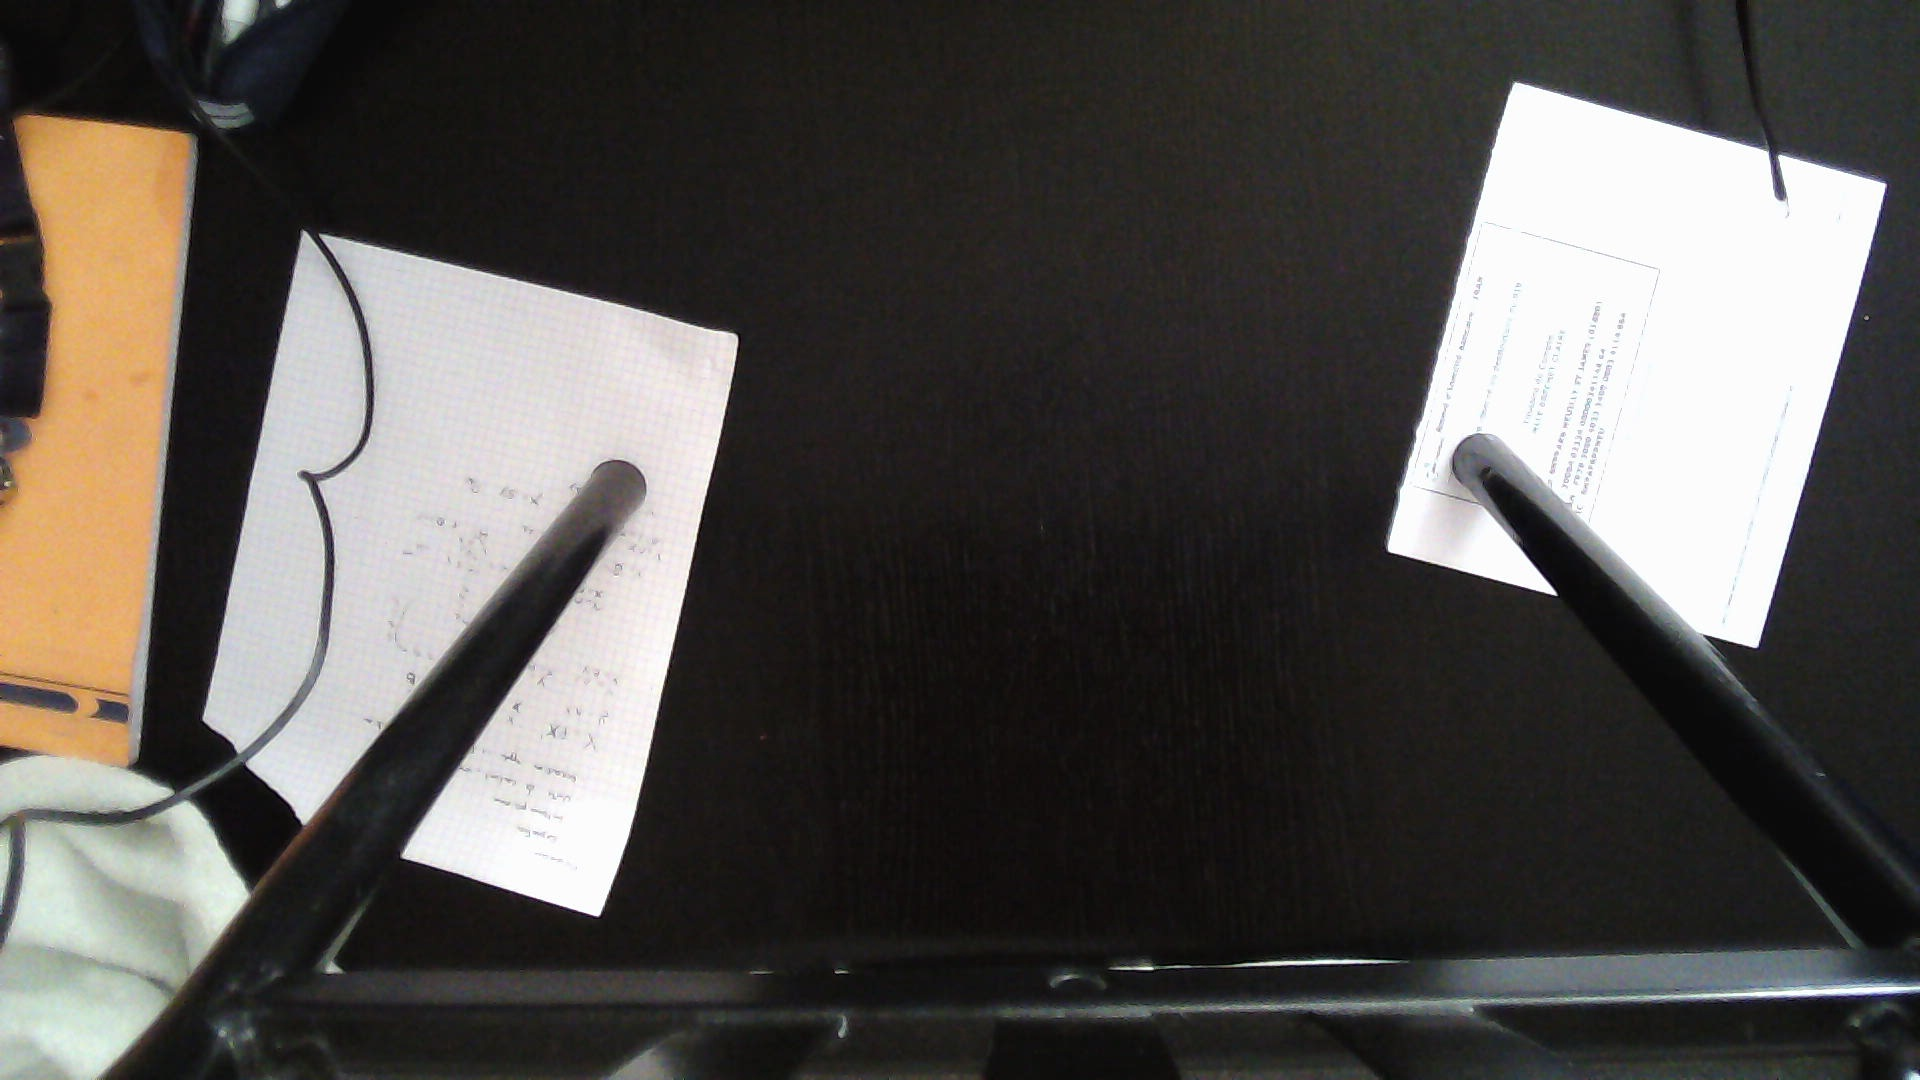
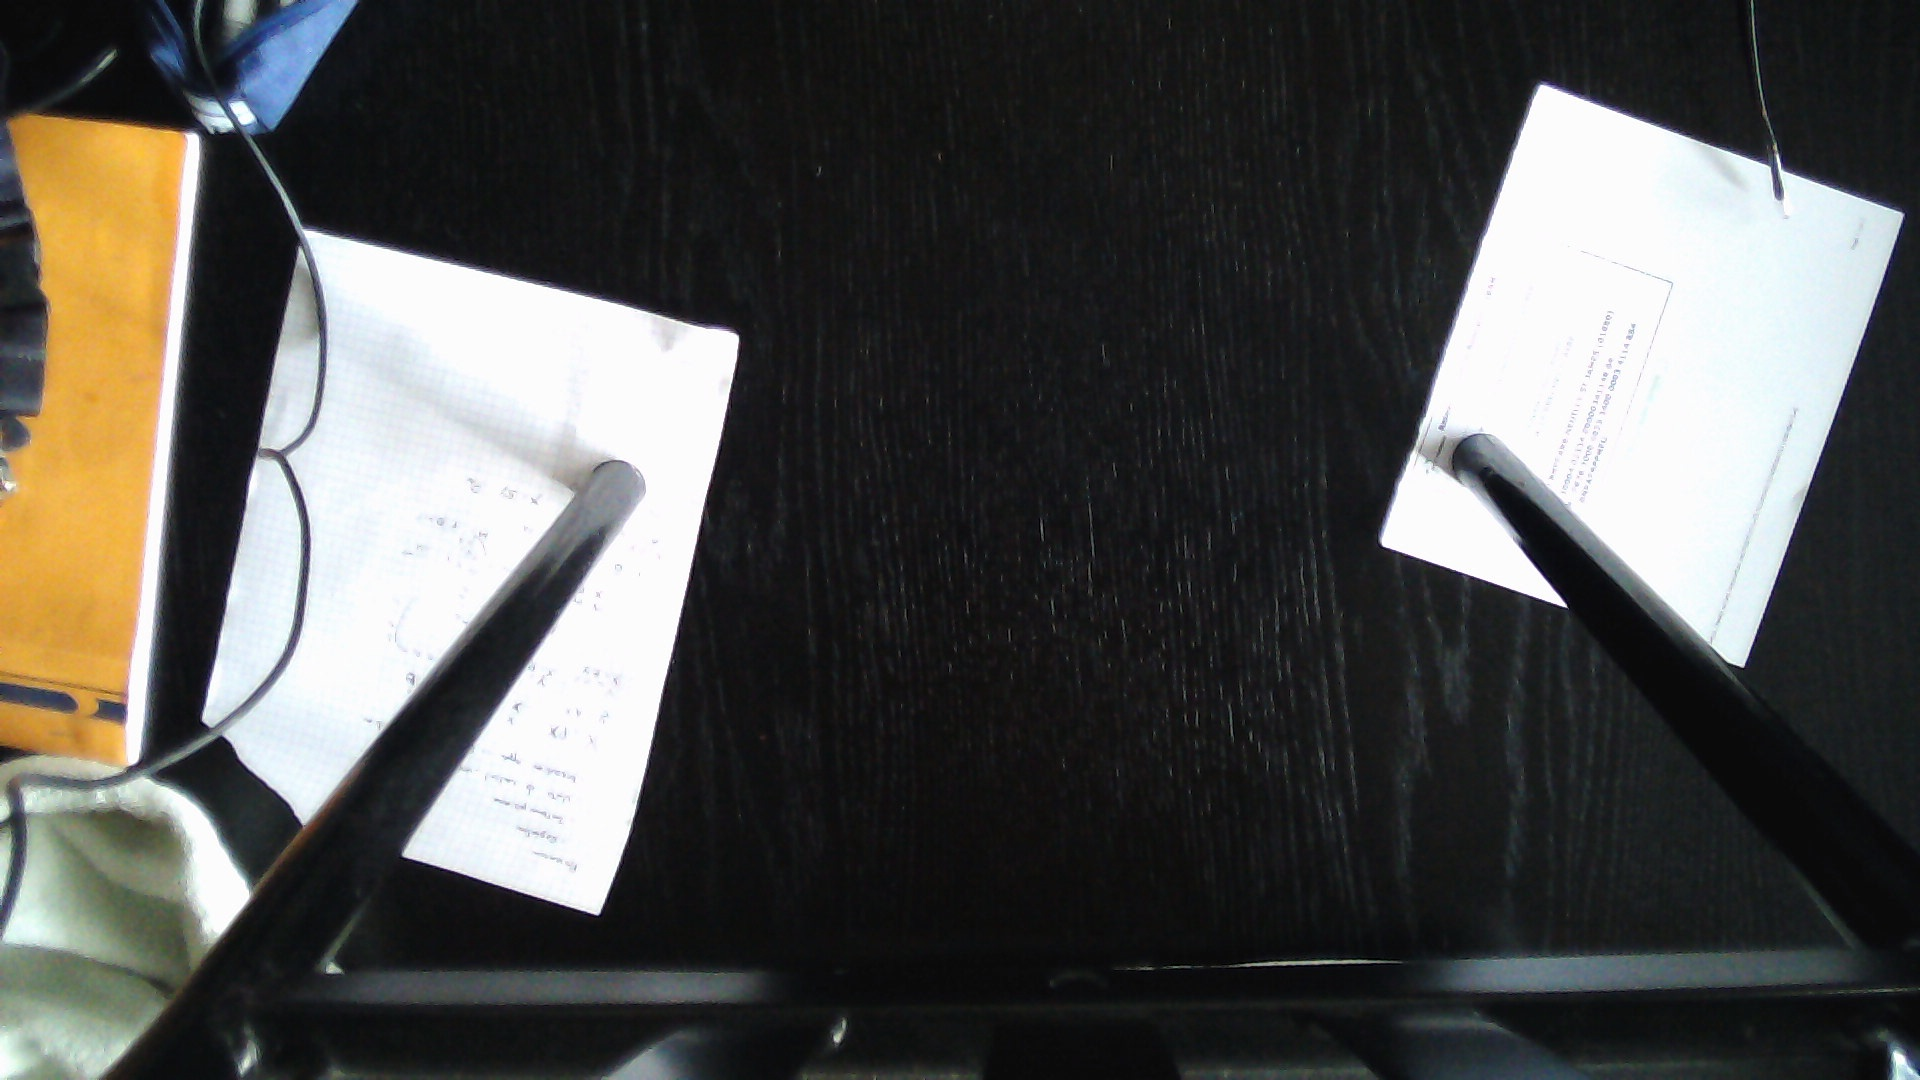
Modifications de seuils

diff --git a/src/camera/Main.java b/src/camera/Main.java
@@ -170,15 +170,15 @@ public class Main {
 		 * Initialisation
 		 * 
 		 */
-		  Initialisation.setCardSize();
+		// Initialisation.setCardSize();
 		
 	/*
 	 * Capture de deux cartes
 	 * 
 	 */
-		/*Capture.captureFrame("data/test/fond.jpg");
+		Capture.captureFrame("data/test/fond.jpg");
 		Thread.sleep(5000);
-		Capture.captureFrame("data/test/carte.jpg");*/
+		Capture.captureFrame("data/test/carte.jpg");
 		
 		Image im1 = new Image("data/test/fond.jpg");
 		Image im2 = new Image ("data/test/carte.jpg");
@@ -199,6 +199,8 @@ public class Main {
 		
 		Card carte = new Card(im2.resample(coins, 635, 889).getRgbImage()); 
 		carte.save("data/test/cartetest.jpg");
+		
+		System.out.println(carte.getType());
 		
 	
 		
@@ -251,15 +253,7 @@ public class Main {
 		//System.out.println(carte.find(Database.database));
 		
 		
-		/*
-		 * 
-		 * Tests sur les lignes et segments
-		 * 
-		 */
-		
-		Line line = new Line(new double[]{6,18}, new double[]{0,0});
 
-	
 				
 				
 		        

diff --git a/src/camera/BinaryComponent.java b/src/camera/BinaryComponent.java
@@ -73,7 +73,7 @@ public class BinaryComponent extends BinaryImage{
 			}
 		}
 		// si (ymin-y)^2 + (xmin - x)^2 < ymin ... + xmax...
-		if((Math.pow(res[2][1]-res[0][1], 2)+Math.pow(res[2][0]-res[0][0], 2)) < (Math.pow(res[0][1]-res[3][1], 2)+Math.pow(res[0][0]-res[3][1], 2))){
+		if((Math.pow(res[2][1]-res[0][1], 2)+Math.pow(res[2][0]-res[0][0], 2)) < (Math.pow(res[0][1]-res[1][1], 2)+Math.pow(res[0][0]-res[1][0  ], 2))){
 			int[] yMin = res[0], xMax = res[1], xMin = res[2], yMax = res[3];
 			res[0] = xMin;
 			res[1] = yMin;
@@ -82,6 +82,7 @@ public class BinaryComponent extends BinaryImage{
 
 
 		}
+
 
 
 		return res;

diff --git a/src/camera/Image.java b/src/camera/Image.java
@@ -15,8 +15,8 @@ import static com.googlecode.javacv.cpp.opencv_highgui.cvLoadImage;
 public class Image {
 	
 
-	public static final int WHITE_THRESHOLD = 200;
-	public static final int DISTANCE_THRESHOLD = 10; // pour la distance entre deux images
+	public static final int WHITE_THRESHOLD = 180;
+	public static final int DISTANCE_THRESHOLD = 20; // pour la distance entre deux images
 	private static final int NEIGHBOUR_NUMBER = 0; // pour l'algorithme de distance
 	
 	protected int compt =0; //compte le nombre de pixels non blancs

diff --git a/src/camera/BinaryImage.java b/src/camera/BinaryImage.java
@@ -18,7 +18,7 @@ import static com.googlecode.javacv.cpp.opencv_highgui.cvLoadImage;
 
 public class BinaryImage extends GrayImage {
 	
-	private static final int COMPONENT_THRESHOLD = 6000;
+	private static final int COMPONENT_THRESHOLD = 3000;
 	protected int[][] binaryMatrix ;
 	private IplImage binaryImage;
 	private ByteBuffer binaryByteBuffer;

diff --git a/src/camera/Card.java b/src/camera/Card.java
@@ -10,8 +10,8 @@ public class Card extends Image{
 	
 
 	// double [] matchTable = new double [5];
-	static double WIDTH = 285 ; // taille de la carte sur l'ecran
-	static double HEIGHT = 402;
+	static double WIDTH = 143.9191667805632 ; // taille de la carte sur l'ecran
+	static double HEIGHT = 201.9325976383875;
 	
 
 
